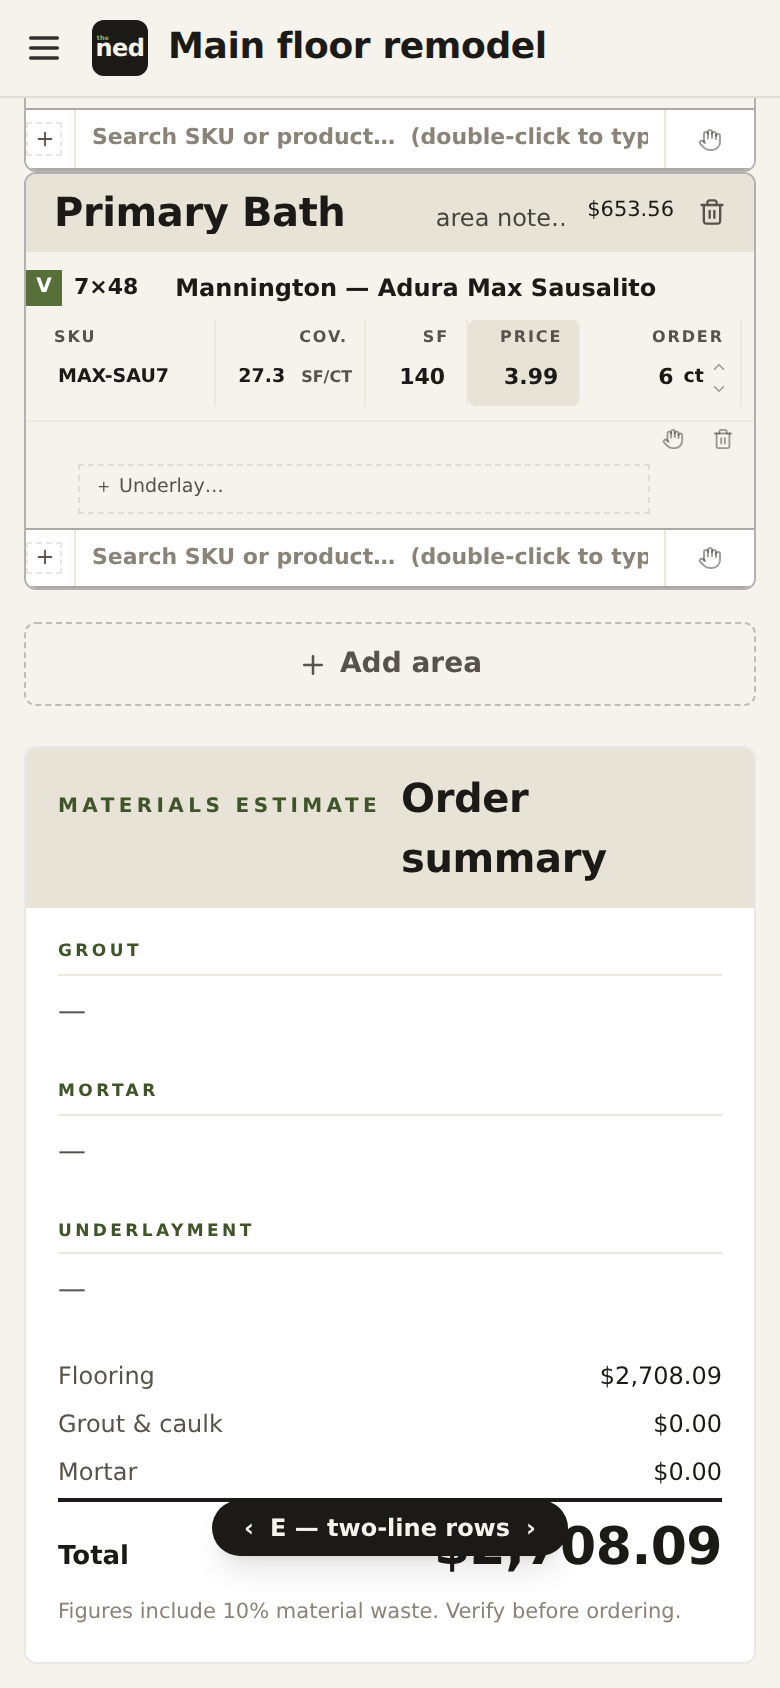
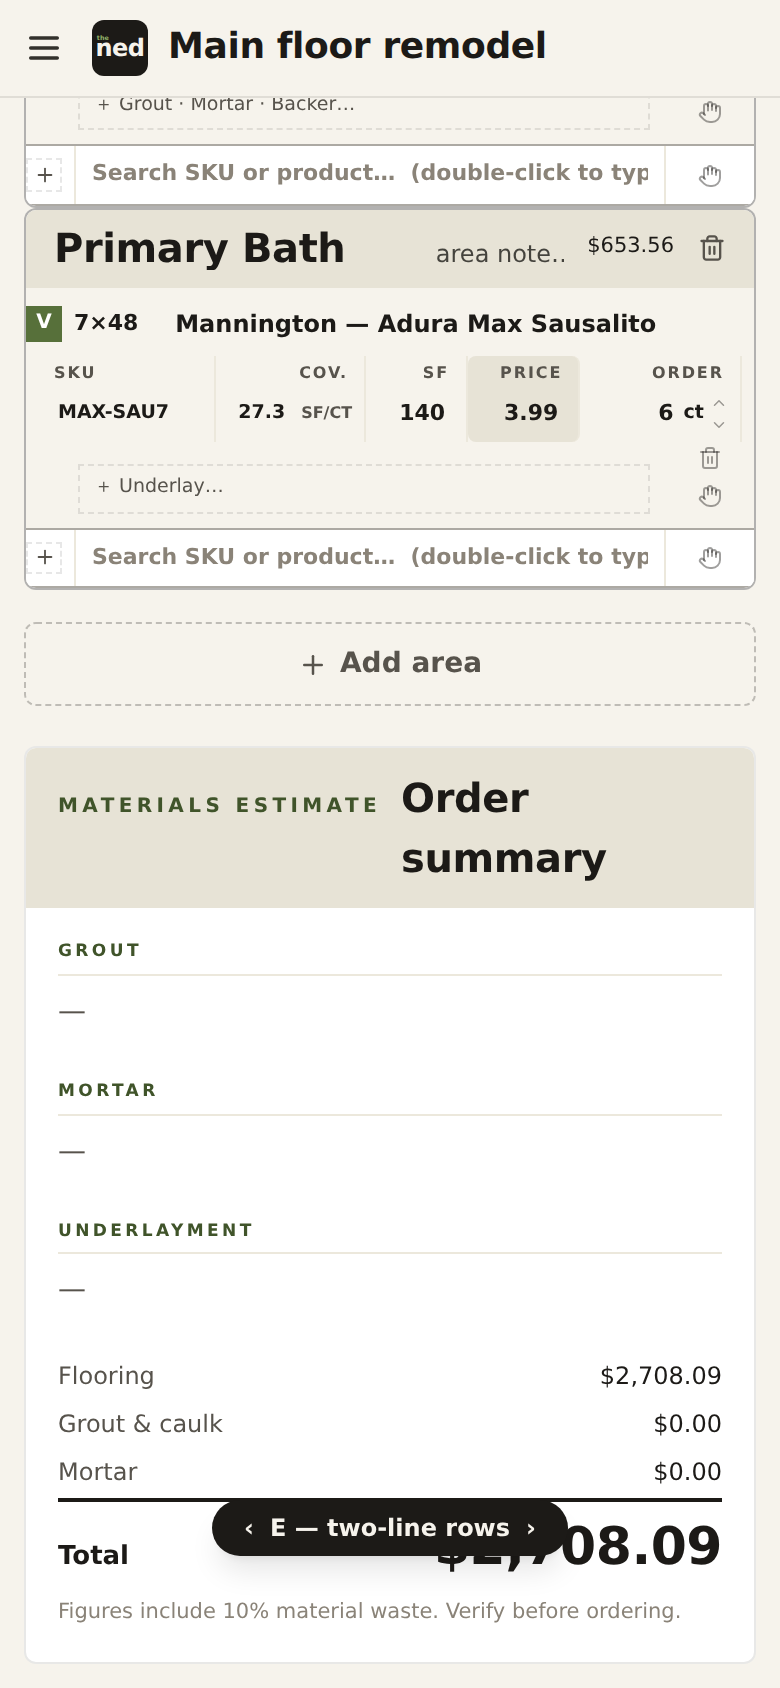
Prototype E round 3: drag/delete dock beside the materials pill
The bottom hairline strip is gone; the trash + hand stack vertically in
the 44px gutter the collapsed materials pill already leaves at its right
(trash on top, hand below). Rows with no pill keep the stack inline at
the end of the second deck. Prototype branch only.

Claude-Session: https://claude.ai/code/session_01NYKrEsFH3MBbqiH6dZr1cV

Changed region(s): [[0.0308, 0.0616, 0.9846, 0.3081]]

diff --git a/src/App.jsx b/src/App.jsx
@@ -2678,6 +2678,9 @@ export default function App({ user, onSignOut }) {
                         const omniText = omniQ[p.id] || "";
                         const goManual = (extra) => { const t = omniText.trim(); updProduct(a.id, p.id, { ...(t ? { brandColor: t } : {}), ...extra }); setManualRows((m) => ({ ...m, [p.id]: true })); setOmniQ((o) => { const n = { ...o }; delete n[p.id]; return n; }); setFocusProdBox(p.id); };
                         const fillFromStock = (items) => { addStockProducts(a.id, p.id, items); setOmniQ((o) => { const n = { ...o }; delete n[p.id]; return n; }); setFocusQty(p.id); };
+                        // PROTOTYPE ?variant=E: the collapsed materials pill leaves a 44px
+                        // gutter at its right; the row's drag/delete stack docks there.
+                        const eHasPill = stripMats.length > 0 || warns.length > 0 || (!hasMats && addables.length > 0);
                         return (
                           // flow-root keeps the collapsed pill's bottom margin inside the
                           // card — collapsed through, it painted a white strip between rows
@@ -2775,11 +2778,20 @@ export default function App({ user, onSignOut }) {
                                     <button tabIndex={-1} onClick={() => updProduct(a.id, p.id, { qtyType: "count" })} title="Square feet — click to switch to counted each" className="shrink-0 pr-1.5 font-semibold hover:text-slate-600" style={{ fontSize: 9.5 }}>sf</button>
                                   </>)}
                                 </EField>
+                                {!eHasPill && (
+                                  <div className="ft-noprint" style={{ display: "flex", flexDirection: "column", alignItems: "center", justifyContent: "center", gap: 5, padding: "0 2px 0 8px" }}>
+                                    {a.products.length > 1 && <button tabIndex={-1} onClick={() => setConfirmProd({ aid: a.id, pid: p.id })} title="Delete this selection" className="text-slate-300 hover:text-red-500" style={{ lineHeight: 0 }}><Trash2 size={11} /></button>}
+                                    <button tabIndex={-1} onPointerDown={(e) => startDrag(e, a.id, p, pi)} title="Drag to reorder or move to another area" className="rounded touch-none cursor-grab text-slate-300 hover:text-slate-500" style={{ lineHeight: 0 }}><Hand size={11} /></button>
+                                  </div>
+                                )}
                               </div>
-                              <div className="ft-noprint" style={{ display: "flex", justifyContent: "flex-end", alignItems: "center", gap: 14, borderTop: "1px solid var(--ft-row-line)", padding: "1px 10px" }}>
-                                <button tabIndex={-1} onPointerDown={(e) => startDrag(e, a.id, p, pi)} title="Drag to reorder or move to another area" className="rounded touch-none cursor-grab text-slate-300 hover:text-slate-500" style={{ lineHeight: 0, padding: "2px 0" }}><Hand size={11} /></button>
-                                {a.products.length > 1 && <button tabIndex={-1} onClick={() => setConfirmProd({ aid: a.id, pid: p.id })} title="Delete this selection" className="text-slate-300 hover:text-red-500" style={{ lineHeight: 0, padding: "2px 0" }}><Trash2 size={11} /></button>}
-                              </div>
+                              {eHasPill && (
+                                /* docks into the pill's 44px right gutter (card is the positioned ancestor) */
+                                <div className="ft-noprint" style={{ position: "absolute", right: 4, bottom: 10, width: 36, display: "flex", flexDirection: "column", alignItems: "center", gap: 7, zIndex: 5 }}>
+                                  {a.products.length > 1 && <button tabIndex={-1} onClick={() => setConfirmProd({ aid: a.id, pid: p.id })} title="Delete this selection" className="text-slate-300 hover:text-red-500" style={{ lineHeight: 0 }}><Trash2 size={12} /></button>}
+                                  <button tabIndex={-1} onPointerDown={(e) => startDrag(e, a.id, p, pi)} title="Drag to reorder or move to another area" className="rounded touch-none cursor-grab text-slate-300 hover:text-slate-500" style={{ lineHeight: 0 }}><Hand size={12} /></button>
+                                </div>
+                              )}
                             </div>
                             ) : (
                             <div style={{ display: "grid", gridTemplateColumns: GRID_COLS, fontSize: 11, fontWeight: 600, background: rowTint, ...(rowOpen ? { position: "relative", zIndex: 46, borderTop: matBorder, borderLeft: matBorder, borderRight: matBorder, marginTop: -3 } : null) }}>